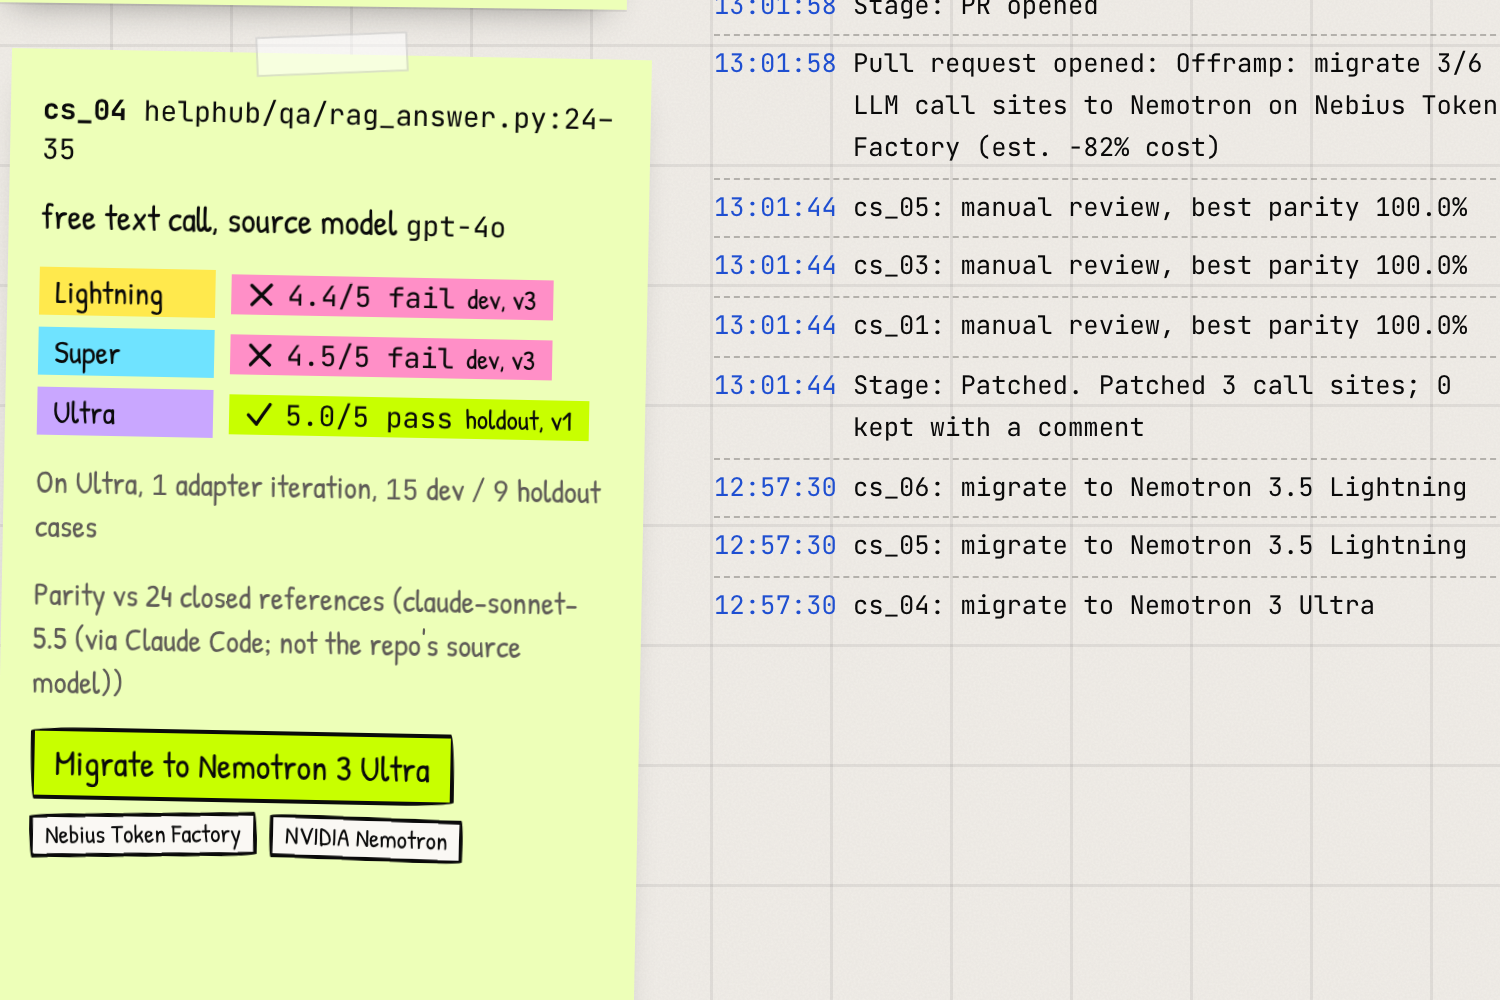
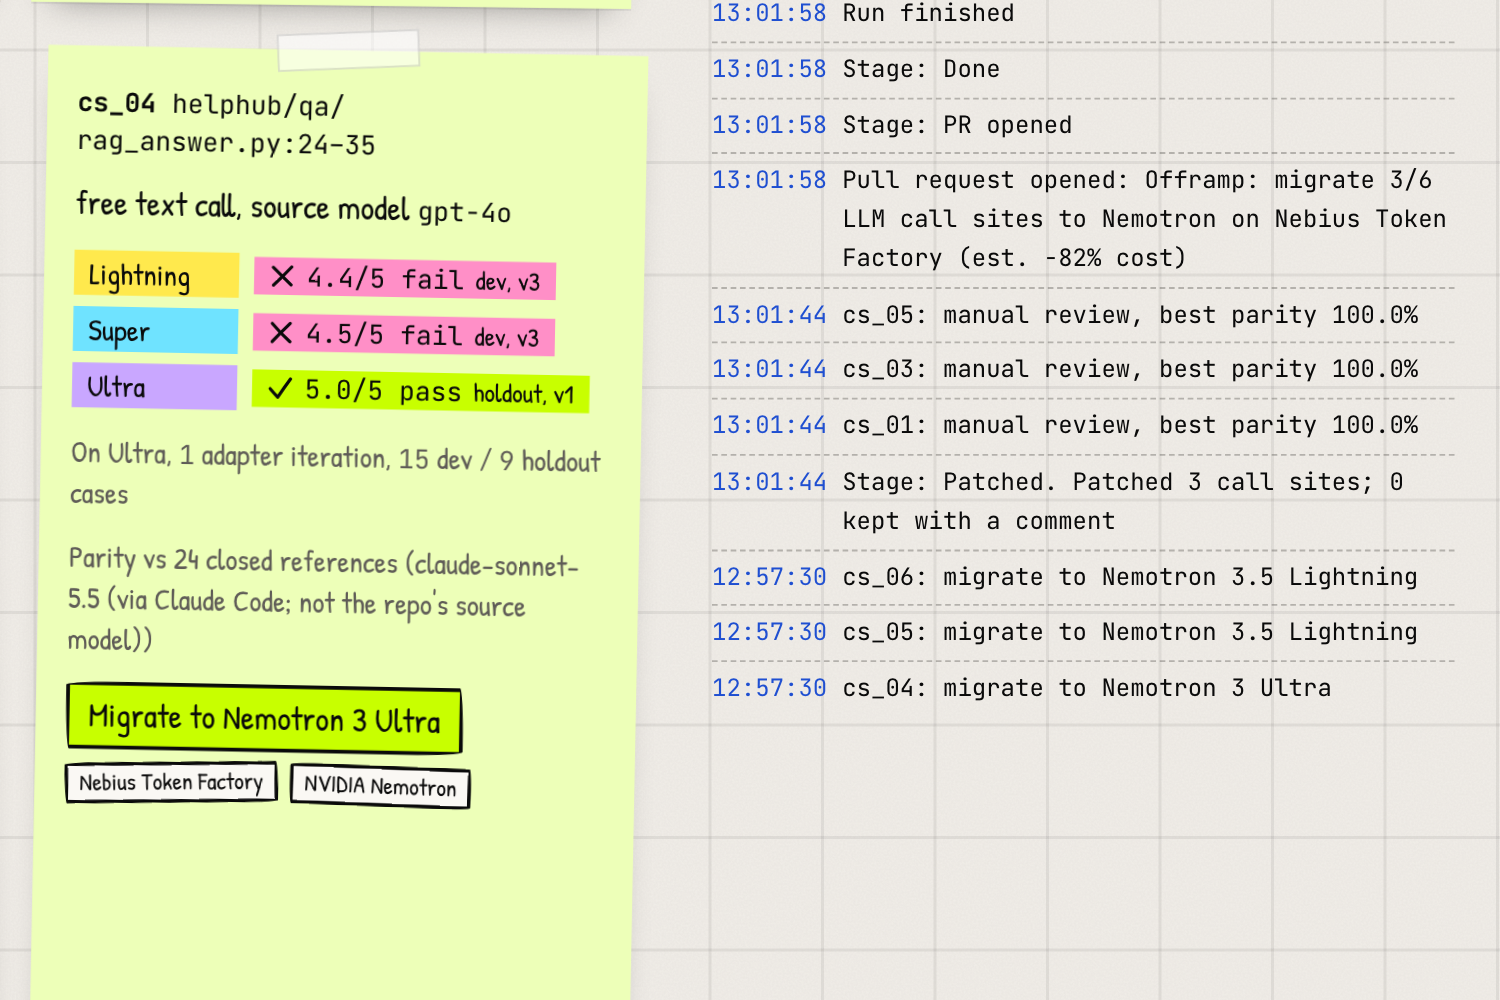
docs(media): retake gallery from the fixed dashboard, no CSS override (Task 16a fix 1)
01, 02, 03, 04, 06 retaken from https://offramp-seven.vercel.app after the
web fit fix (2d99289): the evidence table fits with its cost column, the
manual-review rows show no after values, and the card notes fold behind
"more". 06 now frames the card with the whole log column. The disclosure of
the old width override is removed; captions and the VIDEO recording notes
describe what the images now show.

diff --git a/docs/VIDEO.md b/docs/VIDEO.md
@@ -19,7 +19,7 @@ Speech is about 150 words per minute. The five rows carry 387 words of narration
 | 0:00 to 0:20 | Title card "Offramp", then the New Run screen with the repo field empty. Plain text only. | Swapping a closed LLM API for an open model sounds like a base URL change. The risk is silent regressions: broken JSON, mismatched tool schemas, wrong answers. Nobody can prove, call site by call site, that the open model is good enough. |
 | 0:20 to 0:40 | Dashboard header with the "Nebius Token Factory" and "NVIDIA Nemotron" text badges. Click "Use demo repo" (the field fills), then hover "Watch demo run (replay)". | Offramp does the testing. Point it at a Python repo and it finds every closed-model call, then asks one question per call site: what is the cheapest NVIDIA Nemotron tier on Nebius Token Factory that passes? |
 | 0:40 to 1:25 | Click "Watch demo run (replay)" and record `/runs/demo?replay=demo`. The stage stepper advances, six call-site cards appear, and the "Parity by tier" grid fills (Lightning, Super, Ultra). Zoom on the cs_01 card: Lightning shows "91.7% fail, dev", then after the iteration "100.0% pass, holdout, v1". Then the cs_04 row of the grid: Lightning and Super fail at "dev, v3", Ultra passes. The replay runs about 15 s; slow it in editing rather than cutting beats, and keep text readable. | This is a replay of a real run. The scanner found six call sites. Each one runs against Nemotron Lightning, then Super, then Ultra, all through one OpenAI-compatible endpoint on Token Factory. Deterministic scorers check JSON, labels, tool calls and answers against references, on a holdout split the iterator never sees. Here the ticket classifier fails on Lightning: one of twelve dev tickets gets the wrong label. Nemotron Ultra reads the failure and adds two examples to the prompt, and the rerun passes all twelve dev and all nine holdout cases, on Lightning. The RAG answerer needed Ultra: three rewrites each on Lightning and Super fell short. |
-| 1:25 to 2:25 | Report page `/runs/demo/report?replay=demo`: the headline "3 of 6 LLM calls move to NVIDIA Nemotron on Nebius Token Factory." and "$49.24 (est.) to $43.86: −11%", the evidence table (three Nemotron rows with their tier, three "Manual review" rows), the sunset-risk badge on cs_02, the cost bars labelled "est.". Point at "Open the pull request" (do not follow it on camera). Then scroll the pull request's body as text, with no site chrome: title, evidence table, "What changed", "What Offramp did NOT change", "How parity was measured". | Every site reached the parity bar on some Nemotron tier. Three migrate: the agent step to Super, the RAG answerer to Ultra, the summariser to Lightning. Three go to manual review, the classifier from earlier among them, because Nemotron's edits to their tests could not be verified. Parity means agreement with references, because no closed-model key was used. Costs are estimates: tokens measured on Token Factory, times a published price. Tavily looked that price up at run time, cached per day, for four of the six sites; the other two came from a checked-in price table. Across all six sites, the estimate falls eleven percent; across the three migrated sites, eighty-two. Then the pull request: evidence, the files it changed, and what Offramp did not change. The three patches passed the repo's own lint and tests in a network-off sandbox, alone and merged. |
+| 1:25 to 2:25 | Report page `/runs/demo/report?replay=demo`: the headline "3 of 6 LLM calls move to NVIDIA Nemotron on Nebius Token Factory." and "$49.24 (est.) to $43.86: −11%", the evidence table (three Nemotron rows with their tier, three "Manual review" rows with "—" for their after values), the sunset-risk badge on cs_02, the cost bars labelled "est.". Point at "Open the pull request" (do not follow it on camera). Then scroll the pull request's body as text, with no site chrome: title, evidence table, "What changed", "What Offramp did NOT change", "How parity was measured". | Every site reached the parity bar on some Nemotron tier. Three migrate: the agent step to Super, the RAG answerer to Ultra, the summariser to Lightning. Three go to manual review, the classifier from earlier among them, because Nemotron's edits to their tests could not be verified. Parity means agreement with references, because no closed-model key was used. Costs are estimates: tokens measured on Token Factory, times a published price. Tavily looked that price up at run time, cached per day, for four of the six sites; the other two came from a checked-in price table. Across all six sites, the estimate falls eleven percent; across the three migrated sites, eighty-two. Then the pull request: evidence, the files it changed, and what Offramp did not change. The three patches passed the repo's own lint and tests in a network-off sandbox, alone and merged. |
 | 2:25 to 2:50 | Architecture diagram from the README (text only) with Token Factory highlighted, then the top of `LICENSE` as plain text ("MIT License"), then an end card: "Offramp", the repo URL as text, "make demo". No GitHub page or logo. | Every model call goes through Token Factory, three Nemotron tiers behind one endpoint. The eval matrix ran on a local worker, and the four live runs behind this demo cost ninety-four cents by our counter at list prices, excluding case generation. The repo is MIT licensed, and make demo replays this with no keys. Offramp: test it, then migrate. |
 
 ## Where each number comes from
@@ -46,6 +46,6 @@ All values are from run `20261020-124700775-6cb31e` unless the row says otherwis
 ## Before recording
 
 - The replay finishes in about 15 s and `?replay=demo` never calls Token Factory (it needs no key); the PR text is the real pull request body from the recorded run.
-- Record after the web fix is live on <https://offramp-seven.vercel.app>. Before it, the manual-review notes of the cs_03 and cs_05 cards run past the card's right edge, the report's evidence table is cut at the right edge at 1500 px, and that table shows an "after" cost and latency for the three manual-review rows, which were not migrated. The 1:25 beat depends on that table.
+- Record the browser at 1440 px wide or more, so the report's evidence table fits with its cost column visible. The three manual-review rows show "—" for their after cost and latency, and long manual-review notes on the cards are folded behind a "more" toggle; leave them folded.
 - Every number on screen and in the voice-over traces to a row of the table above. Re-read the final cut against those files.
 - Final cut is under 3:00 (target 2:50), has captions, no logos, no music with a licence; uploaded as public on YouTube; the link goes in the Devpost form.

diff --git a/docs/SUBMISSION.md b/docs/SUBMISSION.md
@@ -94,7 +94,7 @@ Python, FastAPI, Pydantic, SQLModel, OpenAI Python SDK, Nebius Token Factory, NV
 
 ## Gallery images
 
-1500x1000 PNGs in `docs/media/`, taken with Playwright from the deployed dashboard on 2026-10-20. For `04`, the page column was widened so the whole table shows without its sideways scroll; the content is unchanged. In `03` the evidence table is cut at the right edge, as the page shows it at this width.
+1500x1000 PNGs in `docs/media/`, taken with Playwright from the deployed dashboard on 2026-10-20.
 
 `05` is the real PR body rendered as markdown on a plain page, with no site chrome; the line above the title and the caption under it are ours, not part of the PR.
 
@@ -103,7 +103,7 @@ Python, FastAPI, Pydantic, SQLModel, OpenAI Python SDK, Nebius Token Factory, NV
 | `01-replay-mid-run.png` | Mid-run: the RAG answerer has failed on Lightning after three adapter rewrites, and Nemotron 3 Ultra is rewriting its adapter for Super. |
 | `02-replay-done.png` | Done: the parity-by-tier grid with the chosen tier circled for each migrated call site. |
 | `03-report-summary.png` | The report: 3 of 6 calls move to Nemotron; estimated cost across all six sites $49.24 → $43.86 per 1,000 calls (−11%). |
-| `04-report-evidence.png` | The evidence table: before and after model, parity vs reference on holdout, p50 latency on Nemotron, estimated cost per 1,000 calls. |
+| `04-report-evidence.png` | The evidence table: before and after model, parity vs reference on holdout, p50 latency on Nemotron and estimated cost per 1,000 calls. The three manual-review rows show "—" for their after values, because those sites were not migrated. |
 | `05-pr-body.png` | The pull request Offramp opened, shown as its markdown body; its −82% covers the three migrated sites only. |
 | `06-call-site-card.png` | One call site up close: the RAG answerer fails on Lightning and Super after three adapter rewrites each, then passes on Ultra. |
 
